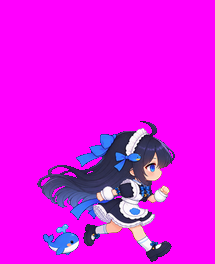
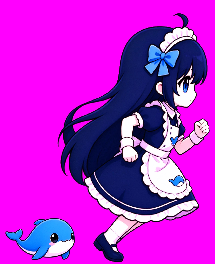
feat(motion): redraw run/duo frames in front-facing style with alternating arm swing
- Run and duo frames redrawn to match front/ride art style (round face,
  big eyes, soft lines) instead of the old sharper style
- Both animations now alternate A (near arm forward) / B (far arm forward)
  poses across the 4-frame cycle, with proper transition frames
- Slow down walk/run/duo/ride: longer frame hold and smaller step pixels
- Clean up intermediate generation artifacts

diff --git a/quota_pet.py b/quota_pet.py
@@ -51,8 +51,8 @@ MOVE_STYLE_ROLES = {
 }
 MOVE_ANIMATION_ROLES = {role for roles in MOVE_STYLE_ROLES.values() for role in roles}
 OPTIONAL_MOVE_ROLES = MOVE_ANIMATION_ROLES - {"side_l", "side_r"}
-MOVE_STEP_PIXELS = {"walk": 3, "run": 6, "ride": 3, "duo": 4}
-MOVE_FRAME_HOLD_TICKS = {"walk": 3, "run": 2, "ride": 3, "duo": 2}
+MOVE_STEP_PIXELS = {"walk": 2, "run": 4, "ride": 2, "duo": 3}
+MOVE_FRAME_HOLD_TICKS = {"walk": 5, "run": 4, "ride": 4, "duo": 4}
 MOVE_TICK_MS = 40
 GIF_DEBUG_BACKGROUND = (238, 238, 242)
 WARN_BELOW = 10.0        # 余额告警阈值
